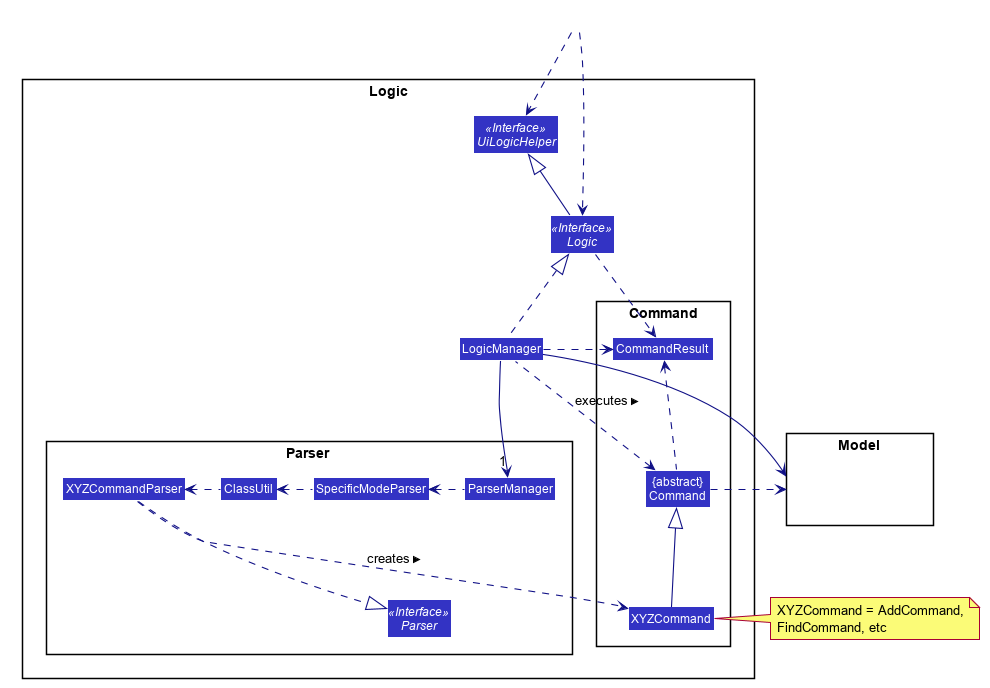
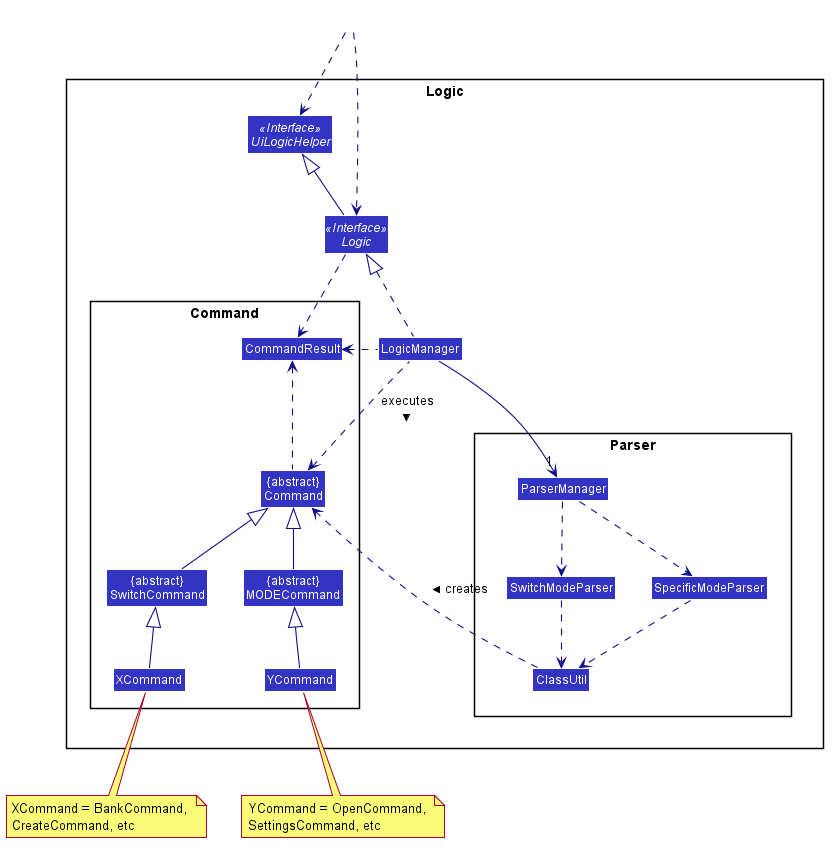
Rebuild pages at 0a403108e9610b6f8ab35ccc50676f414e582e21

diff --git a/DeveloperGuide.html b/DeveloperGuide.html
@@ -237,7 +237,7 @@ Reads data from, and writes data to, the local hard disk.</p>
 <div class="olist arabic">
 <ol class="arabic">
 <li>
-<p><code>Logic</code> uses the <code>AddressBookParser</code> class to parse the user command.</p>
+<p><code>Logic</code> uses the <code>ParserManager</code> class to parse the user command.</p>
 </li>
 <li>
 <p>This results in a <code>Command</code> object which is executed by the <code>LogicManager</code>.</p>
@@ -246,21 +246,24 @@ Reads data from, and writes data to, the local hard disk.</p>
 <p>The command execution can affect the <code>Model</code> (e.g. adding a person).</p>
 </li>
 <li>
-<p>The result of the command execution is encapsulated as a <code>CommandResult</code> object which is passed back to the <code>Ui</code>.</p>
+<p>The result of the command execution is encapsulated as a <code>CommandResult</code> object which is passed back to the <code>Ui</code> and <code>AppManager</code>.</p>
 </li>
 <li>
 <p>In addition, the <code>CommandResult</code> object can also instruct the <code>Ui</code> to perform certain actions, such as displaying help to the user.</p>
 </li>
+<li>
+<p>Furthermore, through the UiLogicHelper Interface, it updates the AutoComplete suggestions for every keystroke.</p>
+</li>
 </ol>
 </div>
 <div class="paragraph">
-<p>Given below is the Sequence Diagram for interactions within the <code>Logic</code> component for the <code>execute("delete 1")</code> API call.</p>
+<p>Given below is the Activity Diagram that shows the workflows that change state of <code>ParserManager</code> that produce different outcomes for commands entered.</p>
 </div>
 <div class="imageblock">
 <div class="content">
-<img src="images/DeleteSequenceDiagram.png" alt="DeleteSequenceDiagram">
+<img src="images/ParserManagerActivityDiagram.png" alt="ParserManagerActivityDiagram">
 </div>
-<div class="title">Figure 6. Interactions Inside the Logic Component for the <code>delete 1</code> Command</div>
+<div class="title">Figure 6. Activity diagram of Application flow</div>
 </div>
 <div class="admonitionblock note">
 <table>
@@ -407,7 +410,7 @@ It dynamically changes parser depending on current mode the game is at. When upd
 <p><code>ModeEnum#getMode()</code>&#8201;&#8212;&#8201;Retrieves the application mode to display visually to the user (represented by enumeration object ModeEnum)</p>
 </li>
 <li>
-<p><code>List&lt;ModeEnum#getModes()</code>&#8201;&#8212;&#8201;Retrieves the possible modes the user can transition to from current mode</p>
+<p><code>List&lt;ModeEnum&gt;#getModes()</code>&#8201;&#8212;&#8201;Retrieves the possible modes the user can transition to from current mode</p>
 </li>
 </ul>
 </div>
@@ -423,61 +426,17 @@ It dynamically changes parser depending on current mode the game is at. When upd
 <div class="paragraph">
 <p>Replace image with state of ParserManager</p>
 </div>
-<div class="imageblock">
-<div class="content">
-<img src="images/UndoRedoState0.png" alt="UndoRedoState0">
-</div>
-</div>
 <div class="paragraph">
 <p>Step 2. The user enters <code>start difficult</code> command to begin the game. The <code>LogicManager</code> passes string to <code>Model#commitAddressBook()</code>, causing the modified state of the address book after the <code>delete 5</code> command executes to be saved in the <code>addressBookStateList</code>, and the <code>currentStatePointer</code> is shifted to the newly inserted address book state.</p>
-</div>
-<div class="imageblock">
-<div class="content">
-<img src="images/UndoRedoState1.png" alt="UndoRedoState1">
-</div>
 </div>
 <div class="paragraph">
 <p>Step 3. The user executes <code>stop</code> to abruptly end the game. The <code>add</code> command also calls <code>Model#commitAddressBook()</code>, causing another modified address book state to be saved into the <code>addressBookStateList</code>.</p>
 </div>
-<div class="imageblock">
-<div class="content">
-<img src="images/UndoRedoState2.png" alt="UndoRedoState2">
-</div>
-</div>
-<div class="admonitionblock note">
-<table>
-<tr>
-<td class="icon">
-<i class="fa icon-note" title="Note"></i>
-</td>
-<td class="content">
-If a command fails its execution, it will not call <code>Model#commitAddressBook()</code>, so the address book state will not be saved into the <code>addressBookStateList</code>.
-</td>
-</tr>
-</table>
-</div>
 <div class="paragraph">
 <p>Step 4. The user now decides that adding the person was a mistake, and decides to undo that action by executing the <code>undo</code> command. The <code>undo</code> command will call <code>Model#undoAddressBook()</code>, which will shift the <code>currentStatePointer</code> once to the left, pointing it to the previous address book state, and restores the address book to that state.</p>
 </div>
-<div class="imageblock">
-<div class="content">
-<img src="images/UndoRedoState3.png" alt="UndoRedoState3">
-</div>
-</div>
-<div class="admonitionblock note">
-<table>
-<tr>
-<td class="icon">
-<i class="fa icon-note" title="Note"></i>
-</td>
-<td class="content">
-If the <code>currentStatePointer</code> is at index 0, pointing to the initial address book state, then there are no previous address book states to restore. The <code>undo</code> command uses <code>Model#canUndoAddressBook()</code> to check if this is the case. If so, it will return an error to the user rather than attempting to perform the undo.
-</td>
-</tr>
-</table>
-</div>
 <div class="paragraph">
-<p>The following sequence diagram shows how the undo operation works:</p>
+<p>The following sequence diagram shows how the AutoComplete operation works:</p>
 </div>
 <div class="imageblock">
 <div class="content">
@@ -498,34 +457,6 @@ The lifeline for <code>UndoCommand</code> should end at the destroy marker (X) b
 </div>
 <div class="paragraph">
 <p>The <code>redo</code> command does the opposite&#8201;&#8212;&#8201;it calls <code>Model#redoAddressBook()</code>, which shifts the <code>currentStatePointer</code> once to the right, pointing to the previously undone state, and restores the address book to that state.</p>
-</div>
-<div class="admonitionblock note">
-<table>
-<tr>
-<td class="icon">
-<i class="fa icon-note" title="Note"></i>
-</td>
-<td class="content">
-If the <code>currentStatePointer</code> is at index <code>addressBookStateList.size() - 1</code>, pointing to the latest address book state, then there are no undone address book states to restore. The <code>redo</code> command uses <code>Model#canRedoAddressBook()</code> to check if this is the case. If so, it will return an error to the user rather than attempting to perform the redo.
-</td>
-</tr>
-</table>
-</div>
-<div class="paragraph">
-<p>Step 5. The user then decides to execute the command <code>list</code>. Commands that do not modify the address book, such as <code>list</code>, will usually not call <code>Model#commitAddressBook()</code>, <code>Model#undoAddressBook()</code> or <code>Model#redoAddressBook()</code>. Thus, the <code>addressBookStateList</code> remains unchanged.</p>
-</div>
-<div class="imageblock">
-<div class="content">
-<img src="images/UndoRedoState4.png" alt="UndoRedoState4">
-</div>
-</div>
-<div class="paragraph">
-<p>Step 6. The user executes <code>clear</code>, which calls <code>Model#commitAddressBook()</code>. Since the <code>currentStatePointer</code> is not pointing at the end of the <code>addressBookStateList</code>, all address book states after the <code>currentStatePointer</code> will be purged. We designed it this way because it no longer makes sense to redo the <code>add n/David &#8230;&#8203;</code> command. This is the behavior that most modern desktop applications follow.</p>
-</div>
-<div class="imageblock">
-<div class="content">
-<img src="images/UndoRedoState5.png" alt="UndoRedoState5">
-</div>
 </div>
 <div class="paragraph">
 <p>The following activity diagram summarizes what happens when a user types a keystroke:</p>
@@ -572,18 +503,18 @@ If the <code>currentStatePointer</code> is at index <code>addressBookStateList.s
 </div>
 </div>
 <div class="sect4">
-<h5 id="aspect-data-structure-to-support-the-undo-redo-commands"><a class="link" href="#aspect-data-structure-to-support-the-undo-redo-commands">Aspect: Data structure to support the undo/redo commands</a></h5>
+<h5 id="aspect-single-parser-vs-parser-manager"><a class="link" href="#aspect-single-parser-vs-parser-manager">Aspect: Single Parser vs Parser Manager</a></h5>
 <div class="ulist">
 <ul>
 <li>
-<p><strong>Alternative 1 (current choice):</strong> Use a list to store the history of address book states.</p>
+<p><strong>Alternative 1 (current choice):</strong> Using a ParserManager to dynamically switch between Parsers based on current state</p>
 <div class="ulist">
 <ul>
 <li>
-<p>Pros: Easy for new Computer Science student undergraduates to understand, who are likely to be the new incoming developers of our project.</p>
+<p>Pros: Commands not belonging to specific mode would not be parsed</p>
 </li>
 <li>
-<p>Cons: Logic is duplicated twice. For example, when a new command is executed, we must remember to update both <code>HistoryManager</code> and <code>VersionedAddressBook</code>.</p>
+<p>Cons: More code to right for initial developer. However it is easily extnensible for new modes and parsers by the Open Close Principle</p>
 </li>
 </ul>
 </div>
@@ -1267,4 +1198,4 @@ Expected: Similar to previous.</p>
 </div>
 </div>
 </div>
-</div></div><div id="footer"><div class="container"><div id="footer-text">Last updated 2019-10-27 13:54:51 UTC</div></div></div></body></html>
+</div></div><div id="footer"><div class="container"><div id="footer-text">Last updated 2019-10-27 14:51:36 UTC</div></div></div></body></html>

diff --git a/team/johndoe.html b/team/johndoe.html
@@ -183,7 +183,7 @@ It dynamically changes parser depending on current mode the game is at. When upd
 <p><code>ModeEnum#getMode()</code>&#8201;&#8212;&#8201;Retrieves the application mode to display visually to the user (represented by enumeration object ModeEnum)</p>
 </li>
 <li>
-<p><code>List&lt;ModeEnum#getModes()</code>&#8201;&#8212;&#8201;Retrieves the possible modes the user can transition to from current mode</p>
+<p><code>List&lt;ModeEnum&gt;#getModes()</code>&#8201;&#8212;&#8201;Retrieves the possible modes the user can transition to from current mode</p>
 </li>
 </ul>
 </div>
@@ -199,61 +199,17 @@ It dynamically changes parser depending on current mode the game is at. When upd
 <div class="paragraph">
 <p>Replace image with state of ParserManager</p>
 </div>
-<div class="imageblock">
-<div class="content">
-<img src="../images/UndoRedoState0.png" alt="UndoRedoState0">
-</div>
-</div>
 <div class="paragraph">
 <p>Step 2. The user enters <code>start difficult</code> command to begin the game. The <code>LogicManager</code> passes string to <code>Model#commitAddressBook()</code>, causing the modified state of the address book after the <code>delete 5</code> command executes to be saved in the <code>addressBookStateList</code>, and the <code>currentStatePointer</code> is shifted to the newly inserted address book state.</p>
-</div>
-<div class="imageblock">
-<div class="content">
-<img src="../images/UndoRedoState1.png" alt="UndoRedoState1">
-</div>
 </div>
 <div class="paragraph">
 <p>Step 3. The user executes <code>stop</code> to abruptly end the game. The <code>add</code> command also calls <code>Model#commitAddressBook()</code>, causing another modified address book state to be saved into the <code>addressBookStateList</code>.</p>
 </div>
-<div class="imageblock">
-<div class="content">
-<img src="../images/UndoRedoState2.png" alt="UndoRedoState2">
-</div>
-</div>
-<div class="admonitionblock note">
-<table>
-<tr>
-<td class="icon">
-<i class="fa icon-note" title="Note"></i>
-</td>
-<td class="content">
-If a command fails its execution, it will not call <code>Model#commitAddressBook()</code>, so the address book state will not be saved into the <code>addressBookStateList</code>.
-</td>
-</tr>
-</table>
-</div>
 <div class="paragraph">
 <p>Step 4. The user now decides that adding the person was a mistake, and decides to undo that action by executing the <code>undo</code> command. The <code>undo</code> command will call <code>Model#undoAddressBook()</code>, which will shift the <code>currentStatePointer</code> once to the left, pointing it to the previous address book state, and restores the address book to that state.</p>
 </div>
-<div class="imageblock">
-<div class="content">
-<img src="../images/UndoRedoState3.png" alt="UndoRedoState3">
-</div>
-</div>
-<div class="admonitionblock note">
-<table>
-<tr>
-<td class="icon">
-<i class="fa icon-note" title="Note"></i>
-</td>
-<td class="content">
-If the <code>currentStatePointer</code> is at index 0, pointing to the initial address book state, then there are no previous address book states to restore. The <code>undo</code> command uses <code>Model#canUndoAddressBook()</code> to check if this is the case. If so, it will return an error to the user rather than attempting to perform the undo.
-</td>
-</tr>
-</table>
-</div>
 <div class="paragraph">
-<p>The following sequence diagram shows how the undo operation works:</p>
+<p>The following sequence diagram shows how the AutoComplete operation works:</p>
 </div>
 <div class="imageblock">
 <div class="content">
@@ -274,34 +230,6 @@ The lifeline for <code>UndoCommand</code> should end at the destroy marker (X) b
 </div>
 <div class="paragraph">
 <p>The <code>redo</code> command does the opposite&#8201;&#8212;&#8201;it calls <code>Model#redoAddressBook()</code>, which shifts the <code>currentStatePointer</code> once to the right, pointing to the previously undone state, and restores the address book to that state.</p>
-</div>
-<div class="admonitionblock note">
-<table>
-<tr>
-<td class="icon">
-<i class="fa icon-note" title="Note"></i>
-</td>
-<td class="content">
-If the <code>currentStatePointer</code> is at index <code>addressBookStateList.size() - 1</code>, pointing to the latest address book state, then there are no undone address book states to restore. The <code>redo</code> command uses <code>Model#canRedoAddressBook()</code> to check if this is the case. If so, it will return an error to the user rather than attempting to perform the redo.
-</td>
-</tr>
-</table>
-</div>
-<div class="paragraph">
-<p>Step 5. The user then decides to execute the command <code>list</code>. Commands that do not modify the address book, such as <code>list</code>, will usually not call <code>Model#commitAddressBook()</code>, <code>Model#undoAddressBook()</code> or <code>Model#redoAddressBook()</code>. Thus, the <code>addressBookStateList</code> remains unchanged.</p>
-</div>
-<div class="imageblock">
-<div class="content">
-<img src="../images/UndoRedoState4.png" alt="UndoRedoState4">
-</div>
-</div>
-<div class="paragraph">
-<p>Step 6. The user executes <code>clear</code>, which calls <code>Model#commitAddressBook()</code>. Since the <code>currentStatePointer</code> is not pointing at the end of the <code>addressBookStateList</code>, all address book states after the <code>currentStatePointer</code> will be purged. We designed it this way because it no longer makes sense to redo the <code>add n/David &#8230;&#8203;</code> command. This is the behavior that most modern desktop applications follow.</p>
-</div>
-<div class="imageblock">
-<div class="content">
-<img src="../images/UndoRedoState5.png" alt="UndoRedoState5">
-</div>
 </div>
 <div class="paragraph">
 <p>The following activity diagram summarizes what happens when a user types a keystroke:</p>
@@ -348,18 +276,18 @@ If the <code>currentStatePointer</code> is at index <code>addressBookStateList.s
 </div>
 </div>
 <div class="sect4">
-<h5 id="aspect-data-structure-to-support-the-undo-redo-commands"><a class="link" href="#aspect-data-structure-to-support-the-undo-redo-commands">Aspect: Data structure to support the undo/redo commands</a></h5>
+<h5 id="aspect-single-parser-vs-parser-manager"><a class="link" href="#aspect-single-parser-vs-parser-manager">Aspect: Single Parser vs Parser Manager</a></h5>
 <div class="ulist">
 <ul>
 <li>
-<p><strong>Alternative 1 (current choice):</strong> Use a list to store the history of address book states.</p>
+<p><strong>Alternative 1 (current choice):</strong> Using a ParserManager to dynamically switch between Parsers based on current state</p>
 <div class="ulist">
 <ul>
 <li>
-<p>Pros: Easy for new Computer Science student undergraduates to understand, who are likely to be the new incoming developers of our project.</p>
+<p>Pros: Commands not belonging to specific mode would not be parsed</p>
 </li>
 <li>
-<p>Cons: Logic is duplicated twice. For example, when a new command is executed, we must remember to update both <code>HistoryManager</code> and <code>VersionedAddressBook</code>.</p>
+<p>Cons: More code to right for initial developer. However it is easily extnensible for new modes and parsers by the Open Close Principle</p>
 </li>
 </ul>
 </div>
@@ -398,4 +326,4 @@ If the <code>currentStatePointer</code> is at index <code>addressBookStateList.s
 <p><em>{Optionally, you may include other projects in your portfolio.}</em></p>
 </div>
 </div>
-</div></div><div id="footer"><div class="container"><div id="footer-text">Last updated 2019-10-27 13:54:51 UTC</div></div></div></body></html>
+</div></div><div id="footer"><div class="container"><div id="footer-text">Last updated 2019-10-27 14:51:36 UTC</div></div></div></body></html>

diff --git a/tutorials/RemovingFields.html b/tutorials/RemovingFields.html
@@ -175,4 +175,4 @@ While keeping the <code>address</code> field in the json files does not cause th
 <p>You can go through each individual <code>json</code> file and manually remove the <code>address</code> field.</p>
 </div>
 </div>
-</div></div><div id="footer"><div class="container"><div id="footer-text">Last updated 2019-10-27 13:54:51 UTC</div></div></div></body></html>
+</div></div><div id="footer"><div class="container"><div id="footer-text">Last updated 2019-10-27 14:51:36 UTC</div></div></div></body></html>

diff --git a/Testing.html b/Testing.html
@@ -90,4 +90,4 @@ e.g. <code>seedu.address.logic.LogicManagerTest</code></p>
 <div class="title">Figure 1. <code>Accessibility</code> permission is granted to <code>IntelliJ IDEA</code></div>
 </div>
 </div>
-</div></div><div id="footer"><div class="container"><div id="footer-text">Last updated 2019-10-27 13:54:51 UTC</div></div></div></body></html>
+</div></div><div id="footer"><div class="container"><div id="footer-text">Last updated 2019-10-27 14:51:36 UTC</div></div></div></body></html>

diff --git a/LearningOutcomes.html b/LearningOutcomes.html
@@ -474,4 +474,4 @@ of storages, but different number of storages (e.g. save to both a text file and
 </div>
 </div>
 </div>
-</div></div><div id="footer"><div class="container"><div id="footer-text">Last updated 2019-10-27 13:54:51 UTC</div></div></div></body></html>
+</div></div><div id="footer"><div class="container"><div id="footer-text">Last updated 2019-10-27 14:51:36 UTC</div></div></div></body></html>

diff --git a/SettingUp.html b/SettingUp.html
@@ -180,4 +180,4 @@ Having both Travis and AppVeyor ensures your App works on both Unix-based platfo
 </div>
 </div>
 </div>
-</div></div><div id="footer"><div class="container"><div id="footer-text">Last updated 2019-10-27 13:54:51 UTC</div></div></div></body></html>
+</div></div><div id="footer"><div class="container"><div id="footer-text">Last updated 2019-10-27 14:51:36 UTC</div></div></div></body></html>

diff --git a/UsingCoveralls.html b/UsingCoveralls.html
@@ -111,4 +111,4 @@ If you have not set up Travis CI, see <a href="UsingTravis.html">UsingTravis.ado
 </ol>
 </div>
 </div>
-</div></div><div id="footer"><div class="container"><div id="footer-text">Last updated 2019-10-27 13:54:51 UTC</div></div></div></body></html>
+</div></div><div id="footer"><div class="container"><div id="footer-text">Last updated 2019-10-27 14:51:36 UTC</div></div></div></body></html>

diff --git a/UsingGradle.html b/UsingGradle.html
@@ -228,4 +228,4 @@ See <code>build.gradle</code> &#8594; <code>allprojects</code> &#8594; <code>dep
 </ul>
 </div>
 </div>
-</div></div><div id="footer"><div class="container"><div id="footer-text">Last updated 2019-10-27 13:54:51 UTC</div></div></div></body></html>
+</div></div><div id="footer"><div class="container"><div id="footer-text">Last updated 2019-10-27 14:51:36 UTC</div></div></div></body></html>

diff --git a/UsingNetlify.html b/UsingNetlify.html
@@ -138,4 +138,4 @@ The publish directory is the directory in which the built HTML documentation res
 </ol>
 </div>
 </div>
-</div></div><div id="footer"><div class="container"><div id="footer-text">Last updated 2019-10-27 13:54:51 UTC</div></div></div></body></html>
+</div></div><div id="footer"><div class="container"><div id="footer-text">Last updated 2019-10-27 14:51:36 UTC</div></div></div></body></html>

diff --git a/Documentation.html b/Documentation.html
@@ -226,4 +226,4 @@ The SE-EDU team does not provide support for modified template files.</p>
 </table>
 </div>
 </div>
-</div></div><div id="footer"><div class="container"><div id="footer-text">Last updated 2019-10-27 13:54:51 UTC</div></div></div></body></html>
+</div></div><div id="footer"><div class="container"><div id="footer-text">Last updated 2019-10-27 14:51:36 UTC</div></div></div></body></html>

diff --git a/UsingTravis.html b/UsingTravis.html
@@ -292,4 +292,4 @@ Suggested change: Remove the codacy badge from <code>README</code>.</p>
 </div>
 </div>
 </div>
-</div></div><div id="footer"><div class="container"><div id="footer-text">Last updated 2019-10-27 13:54:51 UTC</div></div></div></body></html>
+</div></div><div id="footer"><div class="container"><div id="footer-text">Last updated 2019-10-27 14:51:36 UTC</div></div></div></body></html>

diff --git a/UsingPlantUml.html b/UsingPlantUml.html
@@ -337,4 +337,4 @@ Explicitly define all symbols to avoid any potential layout mishaps.
 </div>
 </div>
 </div>
-</div></div><div id="footer"><div class="container"><div id="footer-text">Last updated 2019-10-27 13:54:51 UTC</div></div></div></body></html>
+</div></div><div id="footer"><div class="container"><div id="footer-text">Last updated 2019-10-27 14:51:36 UTC</div></div></div></body></html>
